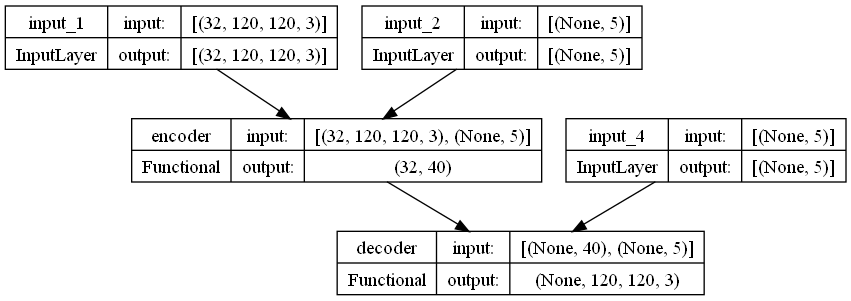
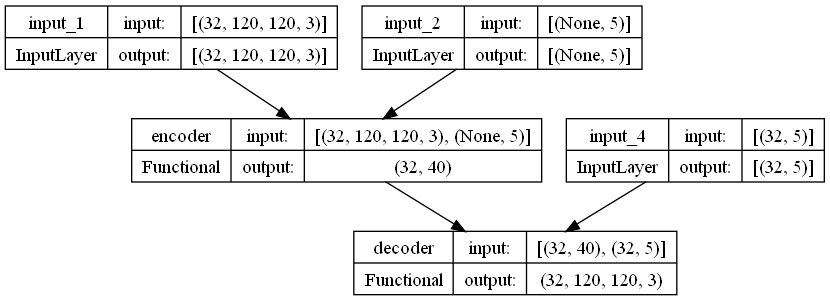
test: feed latent vector to layers of decoder

diff --git a/Generative AI/Project 002. Conditional VAE 를 이용한 사람 얼굴 생성하기/train_cvae_model.py b/Generative AI/Project 002. Conditional VAE 를 이용한 사람 얼굴 생성하기/train_cvae_model.py
@@ -134,21 +134,36 @@ class CVAE_Model:
         self.latent_space = layers.Lambda(noise_maker, output_shape=(HIDDEN_DIMS,), name='ls')([self.latent_mean, self.latent_log_var])
 
         # decoder
-        latent_for_decoder = layers.Input(shape=(HIDDEN_DIMS,))
-        condition_for_decoder = layers.Input(shape=(NUM_INFO,))
+        latent_for_decoder = layers.Input(batch_shape=(BATCH_SIZE, HIDDEN_DIMS)) # shape=(HIDDEN_DIMS,)
+        condition_for_decoder = layers.Input(batch_shape=(BATCH_SIZE, NUM_INFO)) # shape=(NUM_INFO,)
 
         dec_merged = layers.concatenate([latent_for_decoder, condition_for_decoder])
         dec_d0 = self.decoder_dense0(dec_merged)
         dec_d1 = self.decoder_dense1(dec_d0)
         dec_reshaped = layers.Reshape((INPUT_IMG_SIZE // 8, INPUT_IMG_SIZE // 8, 120))(dec_d1)
 
-        dec_c0 = self.decoder_cnn0(dec_reshaped)
+        # decoder additional
+        dec_add_c0 = layers.Dense((INPUT_IMG_SIZE // 8) * (INPUT_IMG_SIZE // 8) * 120, name='dec_c0_add', activation=silu)(latent_for_decoder)
+        dec_add_c0_ = layers.Reshape((INPUT_IMG_SIZE // 8, INPUT_IMG_SIZE // 8, 120))(dec_add_c0)
+
+        dec_add_c1 = layers.Dense((INPUT_IMG_SIZE // 4) * (INPUT_IMG_SIZE // 4) * 80, name='dec_c1_add', activation=silu)(latent_for_decoder)
+        dec_add_c1_ = layers.Reshape((INPUT_IMG_SIZE // 4, INPUT_IMG_SIZE // 4, 80))(dec_add_c1)
+
+        dec_add_c2 = layers.Dense((INPUT_IMG_SIZE // 2) * (INPUT_IMG_SIZE // 2) * 60, name='dec_c2_add', activation=silu)(latent_for_decoder)
+        dec_add_c2_ = layers.Reshape((INPUT_IMG_SIZE // 2, INPUT_IMG_SIZE // 2, 60))(dec_add_c2)
+
+        dec_add_c3 = layers.Dense(INPUT_IMG_SIZE * INPUT_IMG_SIZE * 40, name='dec_c3_add', activation=silu)(latent_for_decoder)
+        dec_add_c3_ = layers.Reshape((INPUT_IMG_SIZE, INPUT_IMG_SIZE, 40))(dec_add_c3)
+        
+        # decoder deconv CNN layers
+        dec_c0 = self.decoder_cnn0(layers.Add()([dec_reshaped, dec_add_c0_]))
         dec_c0 = self.dropout_dec_c0(dec_c0)
-        dec_c1 = self.decoder_cnn1(dec_c0)
+        dec_c1 = self.decoder_cnn1(layers.Add()([dec_c0, dec_add_c1_]))
         dec_c1 = self.dropout_dec_c1(dec_c1)
-        dec_c2 = self.decoder_cnn2(dec_c1)
+        dec_c2 = self.decoder_cnn2(layers.Add()([dec_c1, dec_add_c2_]))
         dec_c2 = self.dropout_dec_c2(dec_c2)
-        dec_c3 = self.decoder_cnn3(dec_c2)
+        dec_c3 = self.decoder_cnn3(layers.Add()([dec_c2, dec_add_c3_]))
+        
         dec_final = layers.Reshape((INPUT_IMG_SIZE, INPUT_IMG_SIZE, NUM_CHANNELS))(dec_c3)
 
         # define encoder, decoder and cvae model
@@ -216,7 +231,7 @@ def train_cvae_model(train_input, train_info):
     # 학습 실시
     cvae_model_class.cvae.fit(
         [train_input, train_info, train_info], train_input,
-        epochs=24,
+        epochs=1,
         batch_size=BATCH_SIZE,
         callbacks=[scheduler_callback],
         shuffle=True
@@ -280,7 +295,7 @@ if __name__ == '__main__':
     np.set_printoptions(suppress=True, linewidth=160)
 
     # 학습 데이터 추출 (이미지 input + 해당 이미지의 class)
-    train_input, train_info = create_train_and_valid_data(limit=None)
+    train_input, train_info = create_train_and_valid_data(limit=100)
     
     print(f'\nshape of train input: {np.shape(train_input)}')
     print(train_input)
